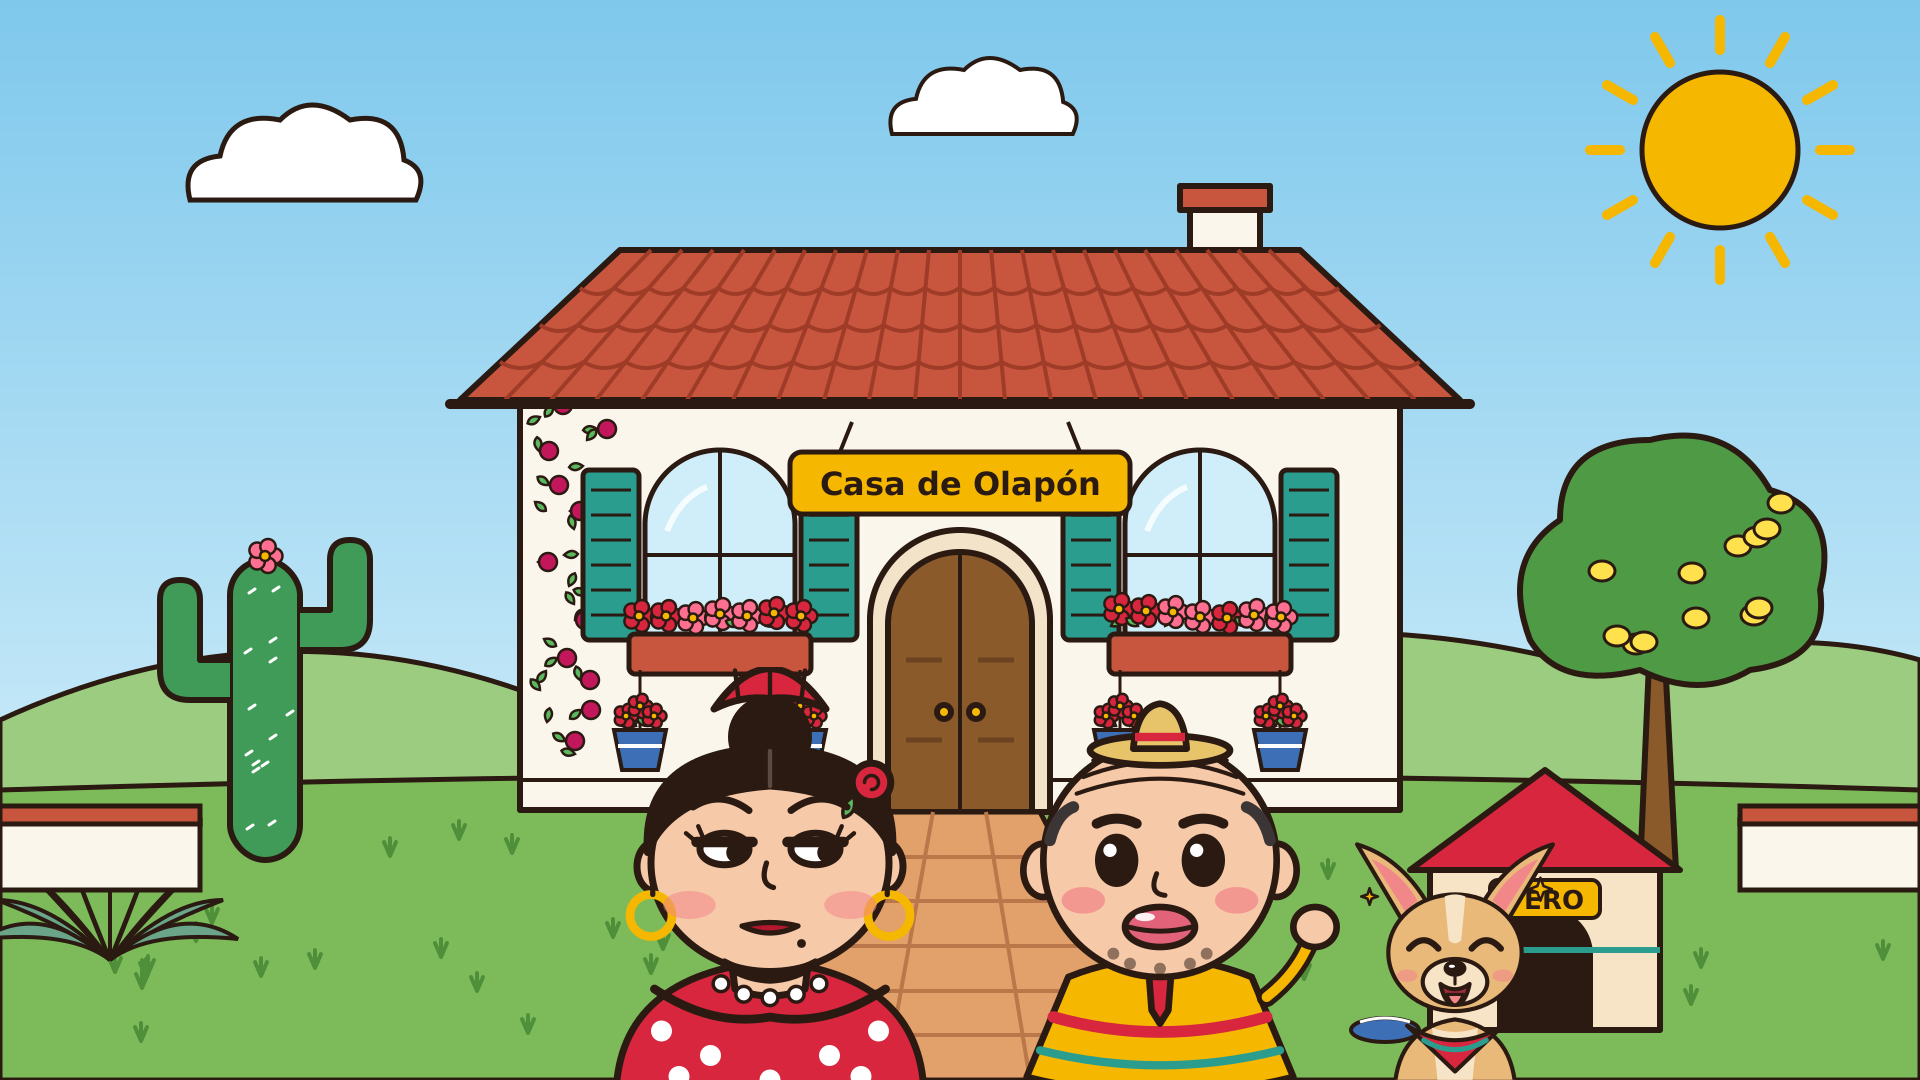
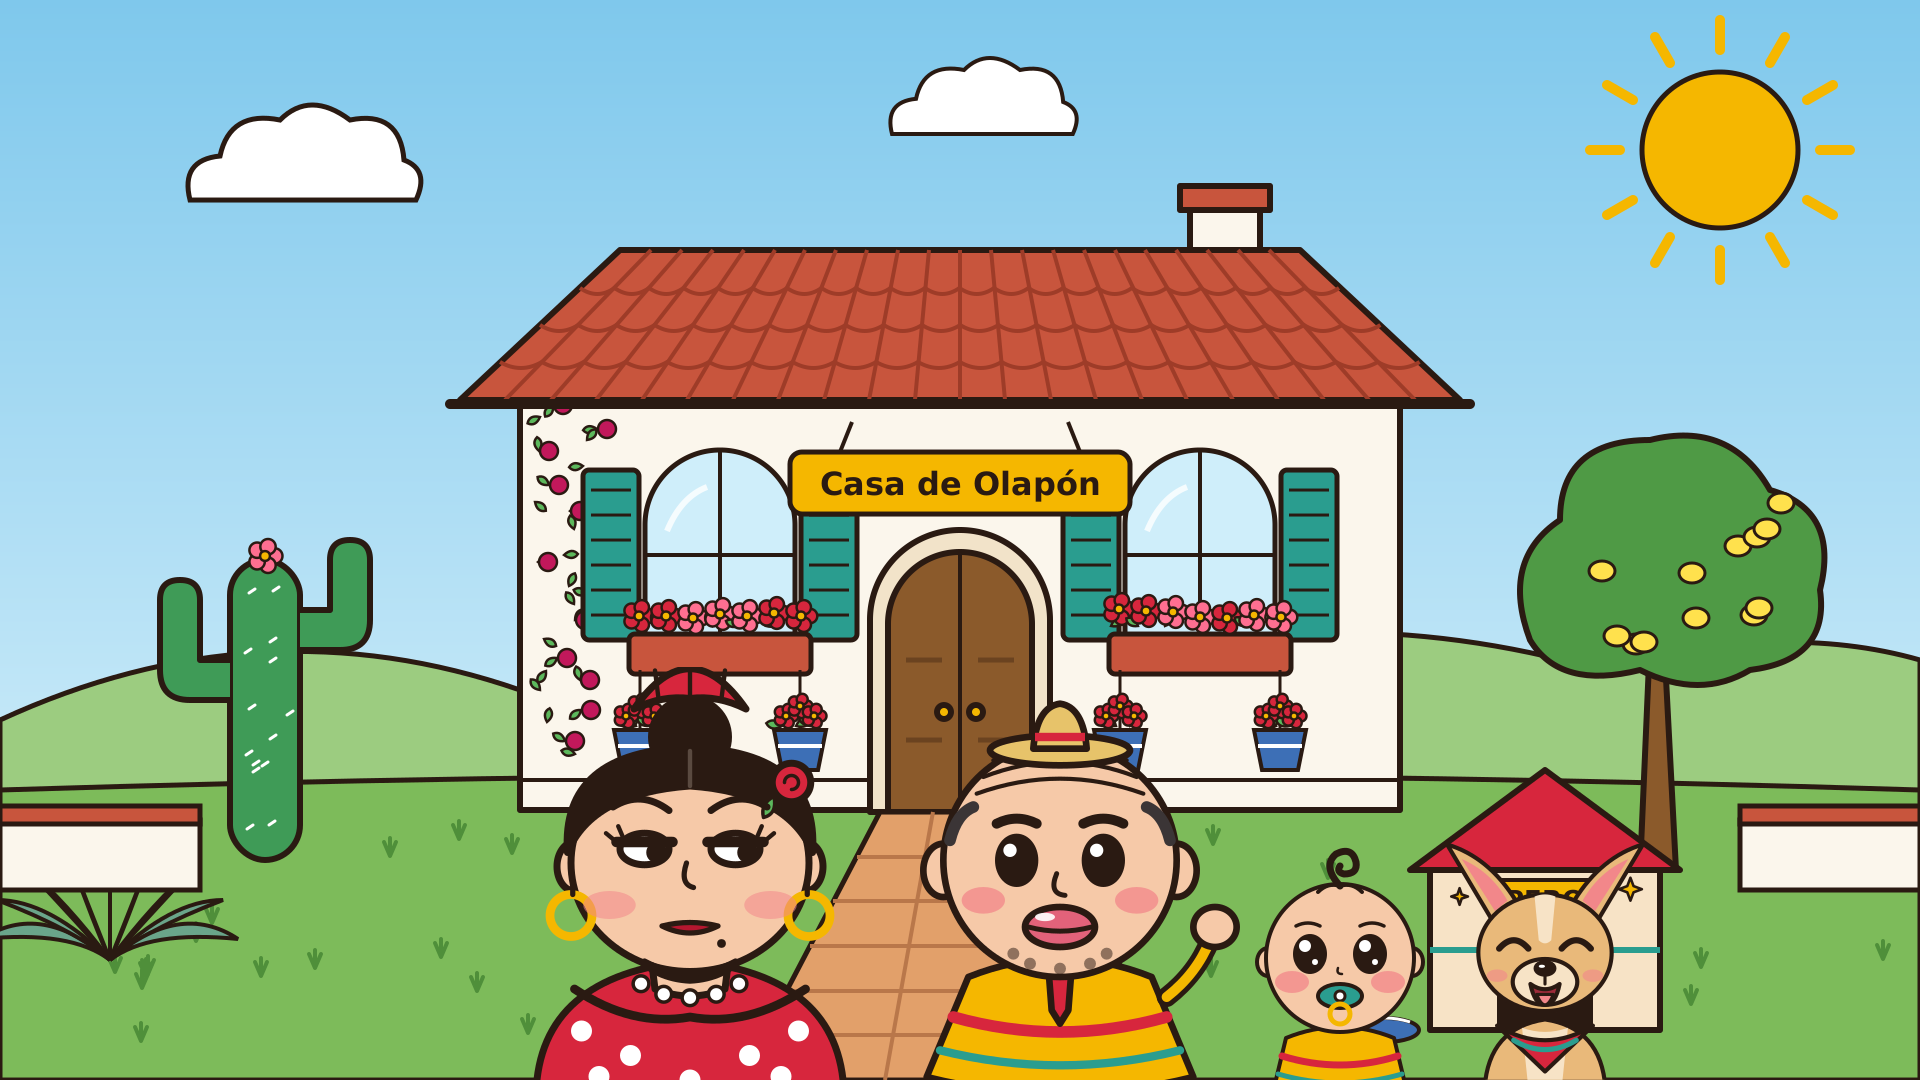
オラポン一家の赤ちゃん「ベベ」をデザイン(表情3種：おしゃぶり・笑い・泣き)。集合画像と家の見本にも追加
Claude-Session: https://claude.ai/code/session_012ysKMzomefDzr7a8J75RoB

Changed region(s): [[0.2812, 0.6111, 0.875, 1.0]]

diff --git a/youtube-spanish/characters/bebe/CHARACTER.md b/youtube-spanish/characters/bebe/CHARACTER.md
@@ -1,0 +1,23 @@
+# ベベ（オラポン君とドローレスの赤ちゃん） キャラクター設定シート
+
+![表情の一覧](preview.png)
+
+| 項目 | 内容 |
+|---|---|
+| 名前 | ベベ（スペイン語の *bebé*＝赤ちゃん。名前そのものが単語の勉強になる） |
+| 見た目 | 大きな丸い顔、うるうるの大きな目、まっかなほっぺ。ママ（ドローレス）ゆずりの黒髪の大きなくるりん1本、パパ（オラポン君）ゆずりのポンチョ柄のよだれかけ |
+| 持ち物 | おしゃぶり（スペイン語で *chupete*） |
+| 性格（案） | まだしゃべれないが、スペイン語の正解がわかる（？）。パパが正解すると笑い、間違えると泣く。意地悪なママも、ベベにだけは甘い |
+
+## 表情（expressions/）
+| ファイル | 表情 | 使う場面の例 |
+|---|---|---|
+| 01_normal | 通常（おしゃぶりをくわえて、うるうるの目） | ふだん |
+| 02_warai | 笑い（目を細めて大きく口を開け、小さなこぶし、キラキラ） | パパが正解したとき |
+| 03_naki | 泣き（目をぎゅっとつぶって大泣き、涙） | パパが間違えたとき、ママが怒ったとき |
+
+## 素材の決まり
+- 他のキャラクターと同じ：SVG・背景透過・viewBox "30 28 240 236"・書き出し 960x944・線 #2A1A12・太さ4
+- 色：肌 #F6C9A8 / ほっぺ #F2878A / 髪 #2A1A12 / よだれかけ #F5B700（しま #D7263D・#2A9D8F）/ おしゃぶり #2A9D8F・#F5B700
+- 口パク用の素材はまだない
+- まだ清書前のラフ

diff --git a/youtube-spanish/characters/olapon/CHARACTER.md b/youtube-spanish/characters/olapon/CHARACTER.md
@@ -17,10 +17,11 @@
 ![家族](../family.png)
 
 - 奥さん：ドローレス（意地悪。`../dolores/CHARACTER.md`）
+- 赤ちゃん：ベベ（ママゆずりの髪のくるりん、パパゆずりのポンチョ柄。`../bebe/CHARACTER.md`）
 - 犬：ペロ（臆病なチワワ。`../pero/CHARACTER.md`）
 - 車：`../car/`（ソンブレロをかぶった黄色いコミカルな車。走る・故障の2種類）
 - 家と庭の背景：`../scenes/`（スペイン・メキシコ風の家、表札「Casa de Olapón」、ペロの犬小屋）
-- 使い方の例：オラポン君が直訳で間違える → ドローレスが扇子で「オホホ」、ペロがぶるぶる。正解すると → ペロが大喜び、ドローレスはつまらなそうなジト目
+- 使い方の例：オラポン君が直訳で間違える → ドローレスが扇子で「オホホ」、ペロがぶるぶる。正解すると → ペロとベベが大喜び、ドローレスはつまらなそうなジト目
 
 ## 口調
 - 語尾は「ポン」。ただし**多すぎると不評**（1本で7回は多すぎた）。**1本あたり3〜4回**が目安
